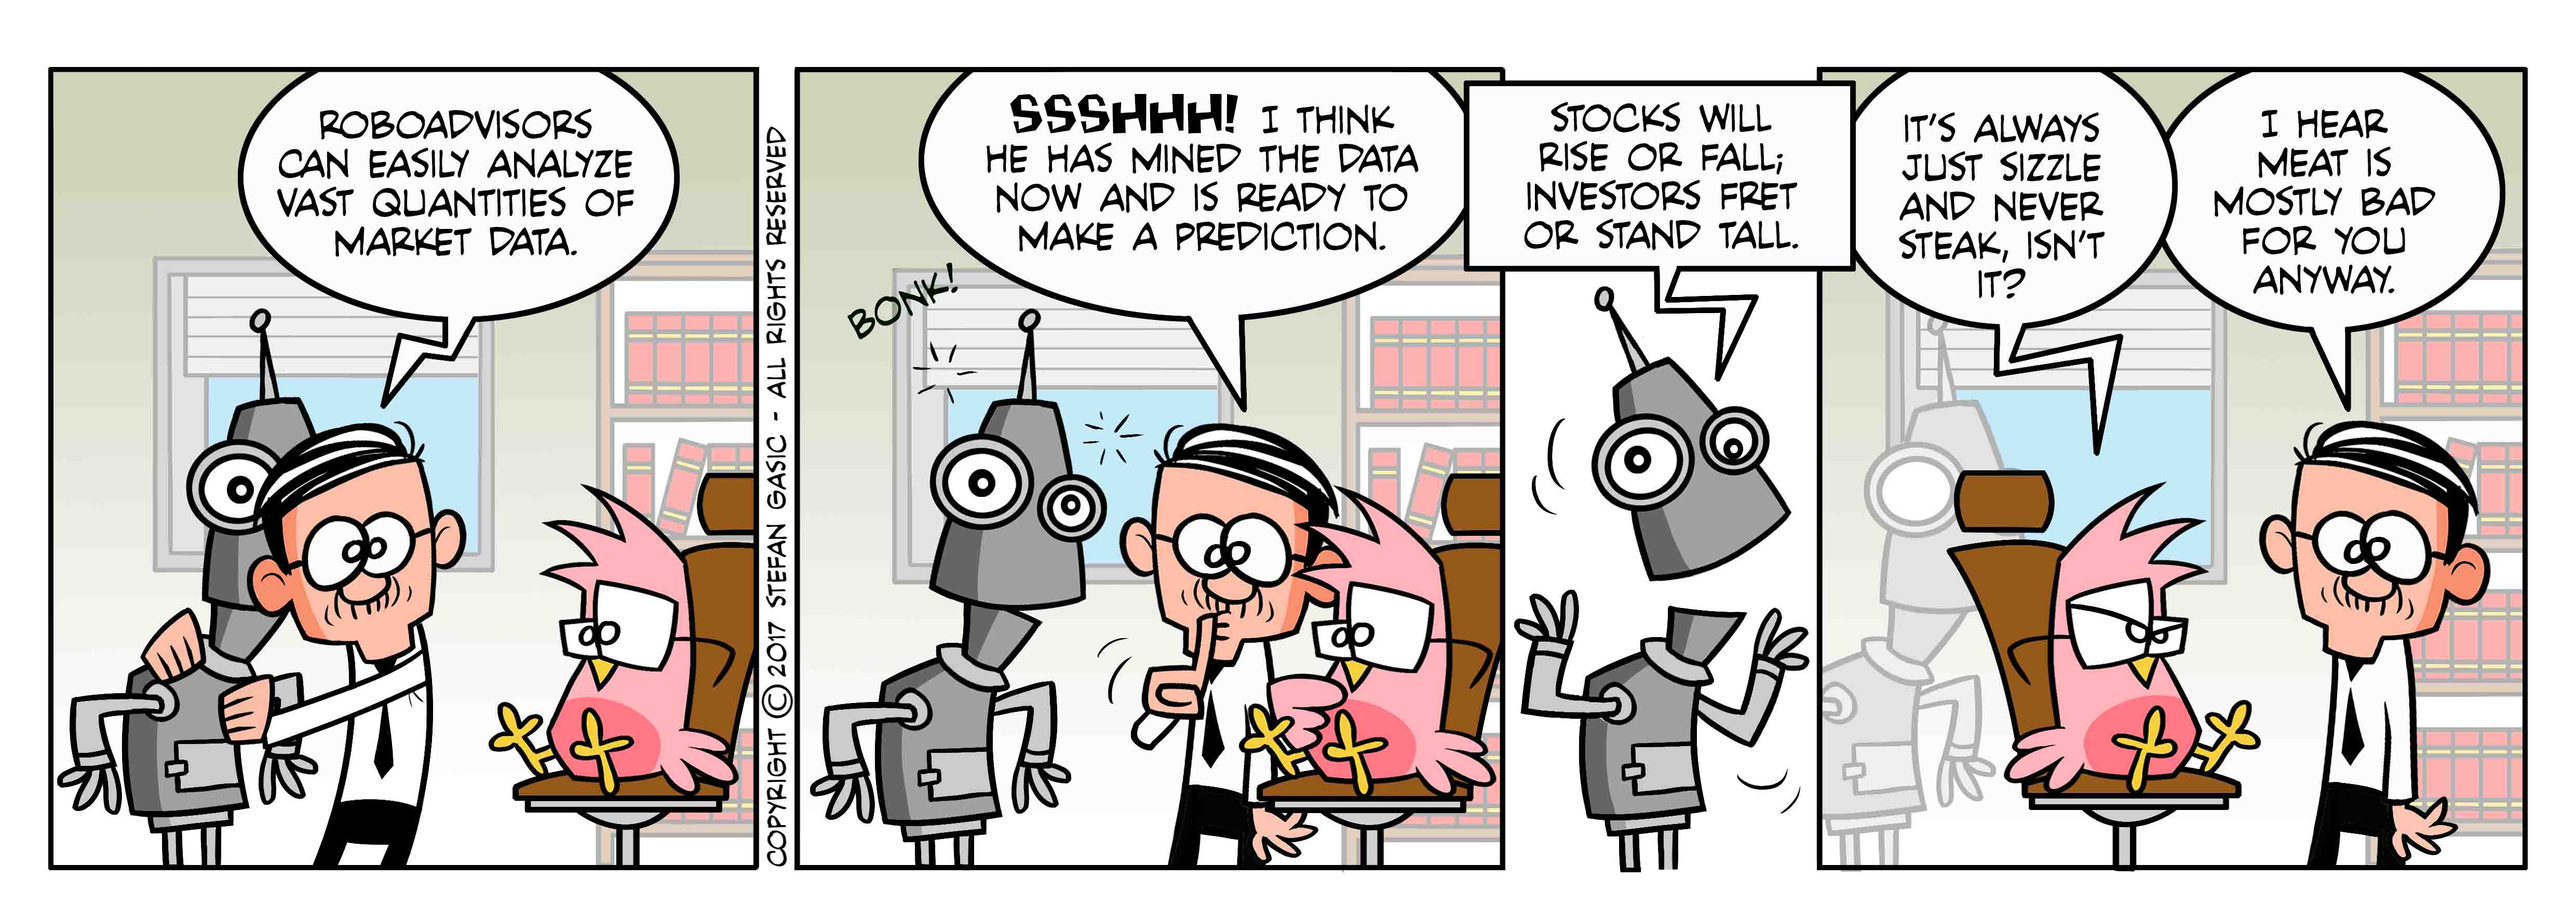
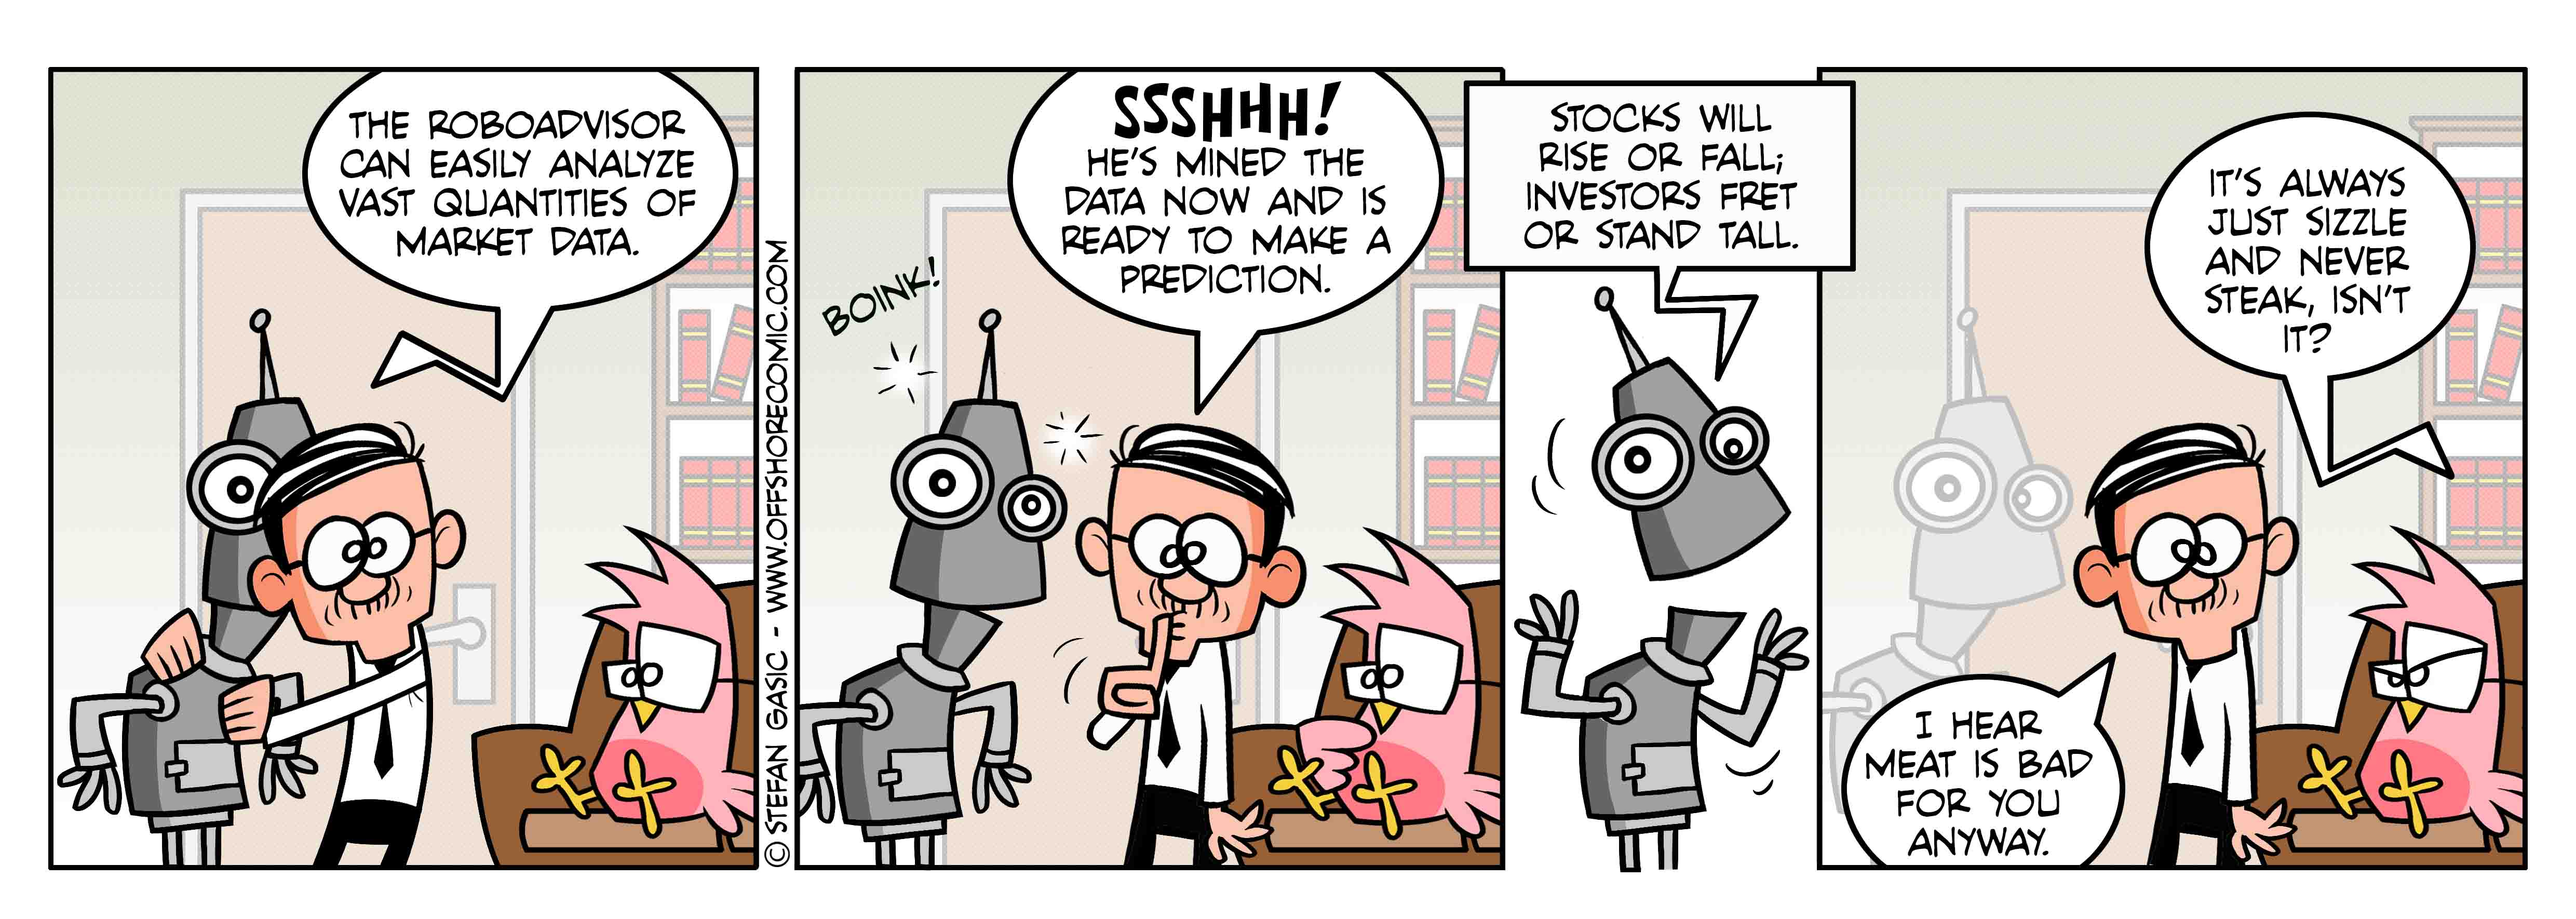
Added a new strip and updated the html and js codes accordingly.

diff --git a/myscripts.js b/myscripts.js
@@ -1,4 +1,4 @@
-var Strips = ["images/S313.jpg","images/S312.jpg","images/S311.jpg","images/S310.jpg","images/S309.jpg","images/S308.jpg","images/S307.jpg","images/S306.jpg","images/S305.jpg","images/S304.jpg","images/S303.jpg","images/S302.jpg","images/S301.jpg","images/S300.jpg","images/S299.jpg","images/S298.jpg","images/S297.jpg","images/S296.jpg","images/S295.jpg","images/S294.jpg","images/S293.jpg","images/S292.jpg","images/S291.jpg","images/S290.jpg","images/S289.jpg","images/S288.jpg","images/S287.jpg","images/S286.jpg","images/S285.jpg","images/S284.jpg","images/S283.jpg","images/S282.jpg","images/S281.jpg","images/S280.jpg","images/S279.jpg","images/S278.jpg","images/S277.jpg","images/S276.jpg","images/S275.jpg","images/S274.jpg","images/S273.jpg","images/S272.jpg","images/S271.jpg","images/S270.jpg","images/S269.jpg","images/S268.jpg","images/S267.jpg","images/S266.jpg","images/S265.jpg","images/S264.jpg","images/S263.jpg","images/S262.jpg","images/S261.jpg","images/S260.jpg","images/S259.jpg","images/S258.jpg","images/S257.jpg","images/S256.jpg","images/S255.jpg","images/S254.jpg","images/S253.jpg","images/S252.jpg","images/S251.jpg","images/S250.jpg","images/S249.jpg","images/S248.jpg","images/S247.jpg","images/S246.jpg","images/S245.jpg","images/S244.jpg","images/S243.jpg","images/S242.jpg","images/S241.jpg","images/S240.jpg","images/S239.jpg","images/S238.jpg","images/S237.jpg","images/S236.jpg","images/S235.jpg","images/S234.jpg","images/S233.jpg","images/S232.jpg","images/S231.jpg","images/S230.jpg","images/S229.jpg","images/S228.jpg","images/S227.jpg","images/S226.jpg","images/S225.jpg","images/S224.jpg","images/S223.jpg","images/S222.jpg","images/S221.jpg","images/S220.jpg","images/S219.jpg","images/S218.jpg","images/S217.jpg","images/S216.jpg","images/S215.jpg","images/S214.jpg","images/S213.jpg","images/S212.jpg","images/S211.jpg","images/S210.jpg","images/S209.jpg","images/S208.jpg","images/S207.jpg","images/S206.jpg","images/S205.jpg","images/S204.jpg","images/S203.jpg","images/S202.jpg","images/S201.jpg","images/S200.jpg","images/S199.jpg","images/S198.jpg","images/S197.jpg","images/S196.jpg","images/S195.jpg","images/S194.jpg","images/S193.jpg","images/S192.jpg","images/S191.jpg","images/S190.jpg","images/S189.jpg","images/S188.jpg","images/S187.jpg","images/S186.jpg","images/S185.jpg","images/S184.jpg","images/S183.jpg","images/S182.jpg","images/S181.jpg","images/S180.jpg","images/S179.jpg","images/S178.jpg","images/S177.jpg","images/S176.jpg","images/S175.jpg","images/S174.jpg","images/S173.jpg","images/S172.jpg","images/S171.jpg","images/S170.jpg","images/S169.jpg","images/S168.jpg","images/S167.jpg","images/S166.jpg","images/S165.jpg","images/S164.jpg","images/S163.jpg","images/S162.jpg","images/S161.jpg","images/S160.jpg","images/S159.jpg","images/S158.jpg","images/S157.jpg","images/S156.jpg","images/S155.jpg","images/S154.jpg","images/S153.jpg","images/S152.jpg","images/S151.jpg","images/S150.jpg","images/S149.jpg","images/S148.jpg","images/S147.jpg","images/S146.jpg","images/S145.jpg","images/S144.jpg","images/S143.jpg","images/S142.jpg","images/S141.jpg","images/S140.jpg","images/S139.jpg","images/S138.jpg","images/S137.jpg","images/S136.jpg","images/S135.jpg","images/S134.jpg","images/S133.jpg","images/S132.jpg","images/S131.jpg","images/S130.jpg","images/S129.jpg","images/S128.jpg","images/S127.jpg","images/S126.jpg","images/S125.jpg","images/S124.jpg","images/S123.jpg","images/S122.jpg","images/S121.jpg","images/S120.jpg","images/S119.jpg","images/S118.jpg","images/S117.jpg","images/S116.jpg","images/S115.jpg","images/S114.jpg","images/S113.jpg","images/S112.jpg","images/S111.jpg","images/S110.jpg","images/S109.jpg","images/S108.jpg","images/S107.jpg","images/S106.jpg","images/S105.jpg","images/S104.jpg","images/S103.jpg","images/S102.jpg","images/S101.jpg","images/S100.jpg","images/S99.jpg","images/S98.jpg","images/S97.jpg","images/S96.jpg","images/S95.jpg","images/S94.jpg","images/S93.jpg","images/S92.jpg","images/S91.jpg","images/S90.jpg","images/S89.jpg","images/S88.jpg","images/S87.jpg","images/S86.jpg","images/S85.jpg","images/S84.jpg","images/S83.jpg","images/S82.jpg","images/S81.jpg","images/S80.jpg","images/S79.jpg","images/S78.jpg","images/S77.jpg","images/S76.jpg","images/S75.jpg","images/S74.jpg","images/S73.jpg","images/S72.jpg","images/S71.jpg","images/S70.jpg","images/S69.jpg","images/S68.jpg","images/S67.jpg","images/S66.jpg","images/S65.jpg","images/S64.jpg","images/S63.jpg","images/S62.jpg","images/S61.jpg","images/S60.jpg","images/S59.jpg","images/S58.jpg","images/S57.jpg","images/S56.jpg","images/S55.jpg","images/S54.jpg","images/S53.jpg","images/S52.jpg","images/S51.jpg","images/S50.jpg","images/S49.jpg","images/S48.jpg","images/S47.jpg","images/S46.jpg","images/S45.jpg","images/S44.jpg","images/S43.jpg","images/S42.jpg","images/S41.jpg","images/S40.jpg","images/S39.jpg","images/S38.jpg","images/S37.jpg","images/S36.jpg","images/S35.jpg","images/S34.jpg","images/S33.jpg","images/S32.jpg","images/S31.jpg","images/S30.jpg","images/S29.jpg","images/S28.jpg","images/S27.jpg","images/S26.jpg","images/S25.jpg","images/S24.jpg","images/S23.jpg","images/S22.jpg","images/S21.jpg","images/S20.jpg","images/S19.jpg","images/S18.jpg","images/S17.jpg","images/S16.jpg","images/S15.jpg","images/S14.jpg","images/S13.jpg","images/S12.jpg","images/S11.jpg","images/S10.jpg","images/S9.jpg","images/S8.jpg","images/S7.jpg","images/S6.jpg","images/S5.jpg","images/S4.jpg","images/S3.jpg","images/S2.jpg","images/S1.jpg"];
+var Strips = ["images/S314.jpg","images/S313.jpg","images/S312.jpg","images/S311.jpg","images/S310.jpg","images/S309.jpg","images/S308.jpg","images/S307.jpg","images/S306.jpg","images/S305.jpg","images/S304.jpg","images/S303.jpg","images/S302.jpg","images/S301.jpg","images/S300.jpg","images/S299.jpg","images/S298.jpg","images/S297.jpg","images/S296.jpg","images/S295.jpg","images/S294.jpg","images/S293.jpg","images/S292.jpg","images/S291.jpg","images/S290.jpg","images/S289.jpg","images/S288.jpg","images/S287.jpg","images/S286.jpg","images/S285.jpg","images/S284.jpg","images/S283.jpg","images/S282.jpg","images/S281.jpg","images/S280.jpg","images/S279.jpg","images/S278.jpg","images/S277.jpg","images/S276.jpg","images/S275.jpg","images/S274.jpg","images/S273.jpg","images/S272.jpg","images/S271.jpg","images/S270.jpg","images/S269.jpg","images/S268.jpg","images/S267.jpg","images/S266.jpg","images/S265.jpg","images/S264.jpg","images/S263.jpg","images/S262.jpg","images/S261.jpg","images/S260.jpg","images/S259.jpg","images/S258.jpg","images/S257.jpg","images/S256.jpg","images/S255.jpg","images/S254.jpg","images/S253.jpg","images/S252.jpg","images/S251.jpg","images/S250.jpg","images/S249.jpg","images/S248.jpg","images/S247.jpg","images/S246.jpg","images/S245.jpg","images/S244.jpg","images/S243.jpg","images/S242.jpg","images/S241.jpg","images/S240.jpg","images/S239.jpg","images/S238.jpg","images/S237.jpg","images/S236.jpg","images/S235.jpg","images/S234.jpg","images/S233.jpg","images/S232.jpg","images/S231.jpg","images/S230.jpg","images/S229.jpg","images/S228.jpg","images/S227.jpg","images/S226.jpg","images/S225.jpg","images/S224.jpg","images/S223.jpg","images/S222.jpg","images/S221.jpg","images/S220.jpg","images/S219.jpg","images/S218.jpg","images/S217.jpg","images/S216.jpg","images/S215.jpg","images/S214.jpg","images/S213.jpg","images/S212.jpg","images/S211.jpg","images/S210.jpg","images/S209.jpg","images/S208.jpg","images/S207.jpg","images/S206.jpg","images/S205.jpg","images/S204.jpg","images/S203.jpg","images/S202.jpg","images/S201.jpg","images/S200.jpg","images/S199.jpg","images/S198.jpg","images/S197.jpg","images/S196.jpg","images/S195.jpg","images/S194.jpg","images/S193.jpg","images/S192.jpg","images/S191.jpg","images/S190.jpg","images/S189.jpg","images/S188.jpg","images/S187.jpg","images/S186.jpg","images/S185.jpg","images/S184.jpg","images/S183.jpg","images/S182.jpg","images/S181.jpg","images/S180.jpg","images/S179.jpg","images/S178.jpg","images/S177.jpg","images/S176.jpg","images/S175.jpg","images/S174.jpg","images/S173.jpg","images/S172.jpg","images/S171.jpg","images/S170.jpg","images/S169.jpg","images/S168.jpg","images/S167.jpg","images/S166.jpg","images/S165.jpg","images/S164.jpg","images/S163.jpg","images/S162.jpg","images/S161.jpg","images/S160.jpg","images/S159.jpg","images/S158.jpg","images/S157.jpg","images/S156.jpg","images/S155.jpg","images/S154.jpg","images/S153.jpg","images/S152.jpg","images/S151.jpg","images/S150.jpg","images/S149.jpg","images/S148.jpg","images/S147.jpg","images/S146.jpg","images/S145.jpg","images/S144.jpg","images/S143.jpg","images/S142.jpg","images/S141.jpg","images/S140.jpg","images/S139.jpg","images/S138.jpg","images/S137.jpg","images/S136.jpg","images/S135.jpg","images/S134.jpg","images/S133.jpg","images/S132.jpg","images/S131.jpg","images/S130.jpg","images/S129.jpg","images/S128.jpg","images/S127.jpg","images/S126.jpg","images/S125.jpg","images/S124.jpg","images/S123.jpg","images/S122.jpg","images/S121.jpg","images/S120.jpg","images/S119.jpg","images/S118.jpg","images/S117.jpg","images/S116.jpg","images/S115.jpg","images/S114.jpg","images/S113.jpg","images/S112.jpg","images/S111.jpg","images/S110.jpg","images/S109.jpg","images/S108.jpg","images/S107.jpg","images/S106.jpg","images/S105.jpg","images/S104.jpg","images/S103.jpg","images/S102.jpg","images/S101.jpg","images/S100.jpg","images/S99.jpg","images/S98.jpg","images/S97.jpg","images/S96.jpg","images/S95.jpg","images/S94.jpg","images/S93.jpg","images/S92.jpg","images/S91.jpg","images/S90.jpg","images/S89.jpg","images/S88.jpg","images/S87.jpg","images/S86.jpg","images/S85.jpg","images/S84.jpg","images/S83.jpg","images/S82.jpg","images/S81.jpg","images/S80.jpg","images/S79.jpg","images/S78.jpg","images/S77.jpg","images/S76.jpg","images/S75.jpg","images/S74.jpg","images/S73.jpg","images/S72.jpg","images/S71.jpg","images/S70.jpg","images/S69.jpg","images/S68.jpg","images/S67.jpg","images/S66.jpg","images/S65.jpg","images/S64.jpg","images/S63.jpg","images/S62.jpg","images/S61.jpg","images/S60.jpg","images/S59.jpg","images/S58.jpg","images/S57.jpg","images/S56.jpg","images/S55.jpg","images/S54.jpg","images/S53.jpg","images/S52.jpg","images/S51.jpg","images/S50.jpg","images/S49.jpg","images/S48.jpg","images/S47.jpg","images/S46.jpg","images/S45.jpg","images/S44.jpg","images/S43.jpg","images/S42.jpg","images/S41.jpg","images/S40.jpg","images/S39.jpg","images/S38.jpg","images/S37.jpg","images/S36.jpg","images/S35.jpg","images/S34.jpg","images/S33.jpg","images/S32.jpg","images/S31.jpg","images/S30.jpg","images/S29.jpg","images/S28.jpg","images/S27.jpg","images/S26.jpg","images/S25.jpg","images/S24.jpg","images/S23.jpg","images/S22.jpg","images/S21.jpg","images/S20.jpg","images/S19.jpg","images/S18.jpg","images/S17.jpg","images/S16.jpg","images/S15.jpg","images/S14.jpg","images/S13.jpg","images/S12.jpg","images/S11.jpg","images/S10.jpg","images/S9.jpg","images/S8.jpg","images/S7.jpg","images/S6.jpg","images/S5.jpg","images/S4.jpg","images/S3.jpg","images/S2.jpg","images/S1.jpg"];
 
 var Current = 0;
 var myStrip = null;

diff --git a/index.html b/index.html
@@ -41,7 +41,7 @@
         <div class="count">
           <strong><span id="currentCount"></span></strong> out of <strong><span id="totalCount"></span></strong>
         </div>
-		<div class="wrap-item1"><img src="images/S313.jpg" id="Strip"/></div>
+		<div class="wrap-item1"><img src="images/S314.jpg" id="Strip"/></div>
 		<div class="wrapper3">
 			<div class="wrap-item3">
 			<button class="button" onClick="Last();">&lsaquo;&lsaquo;</button>
